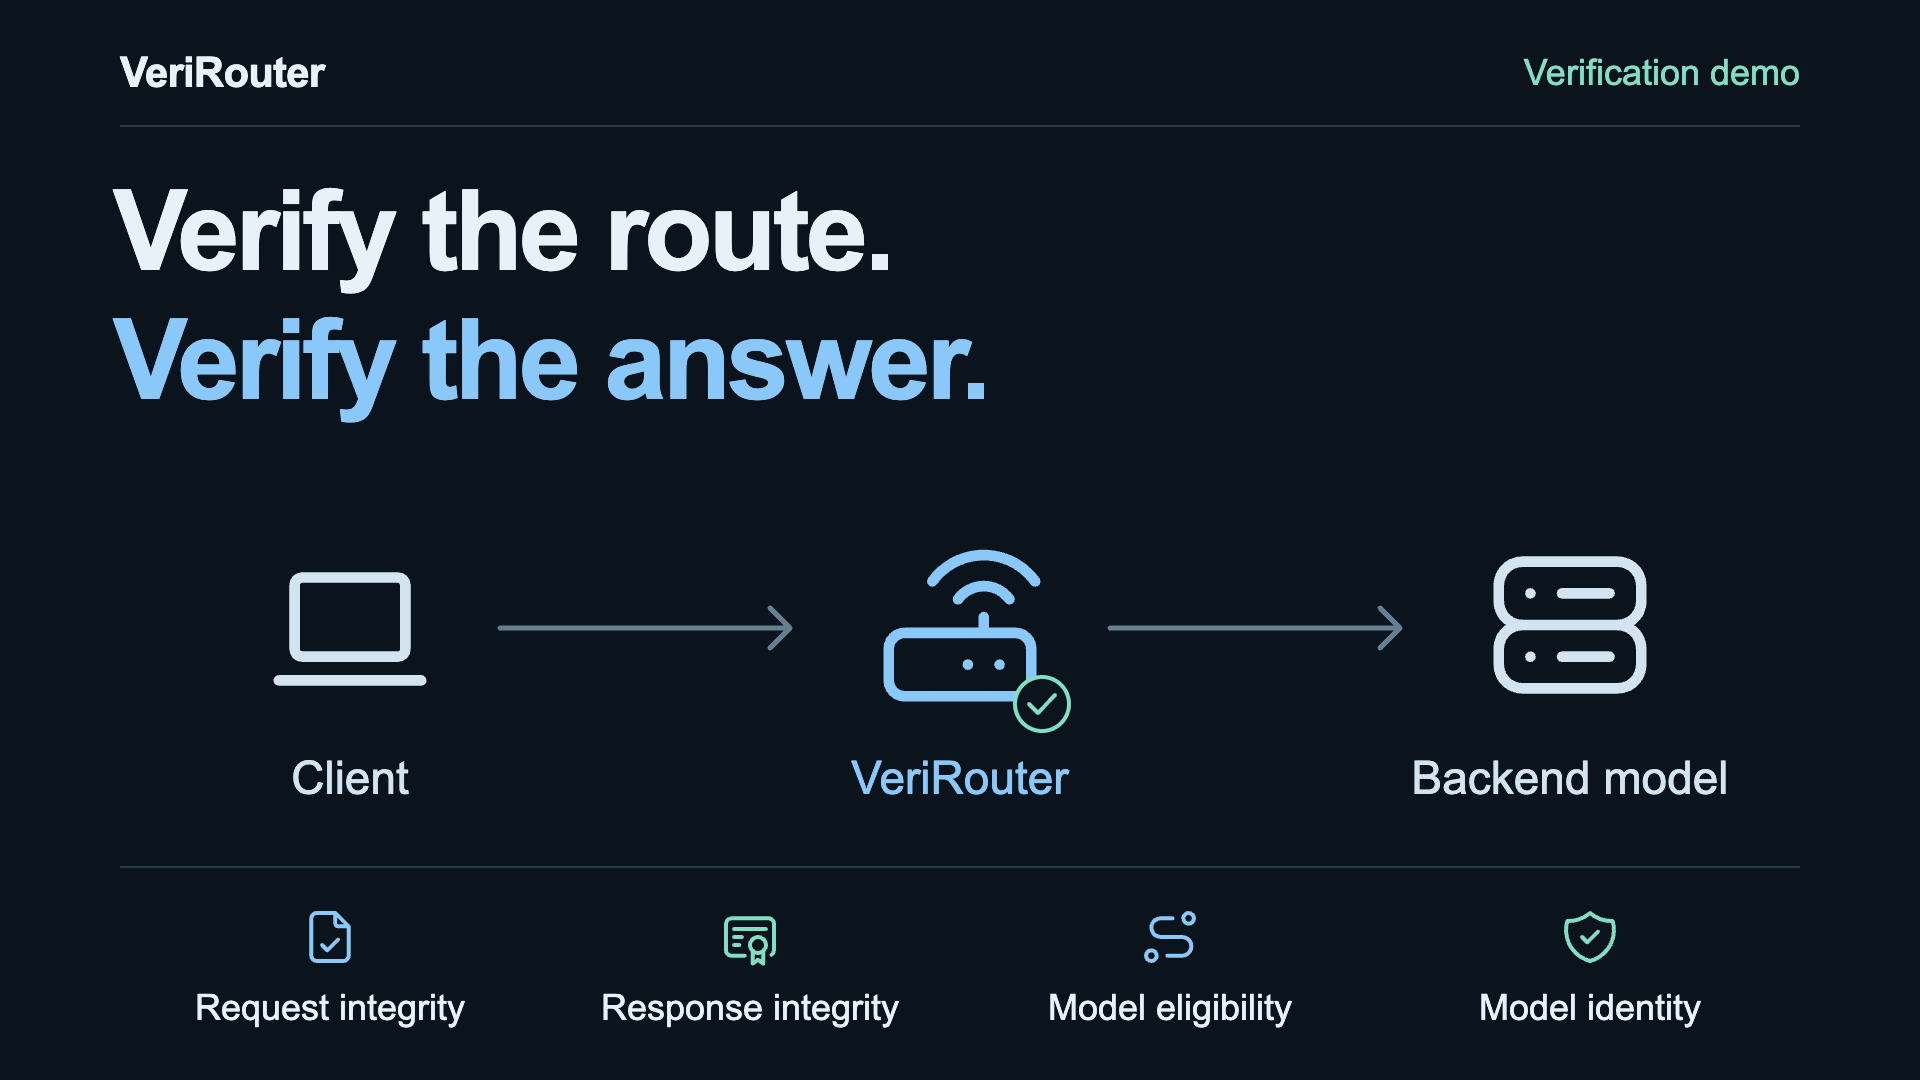
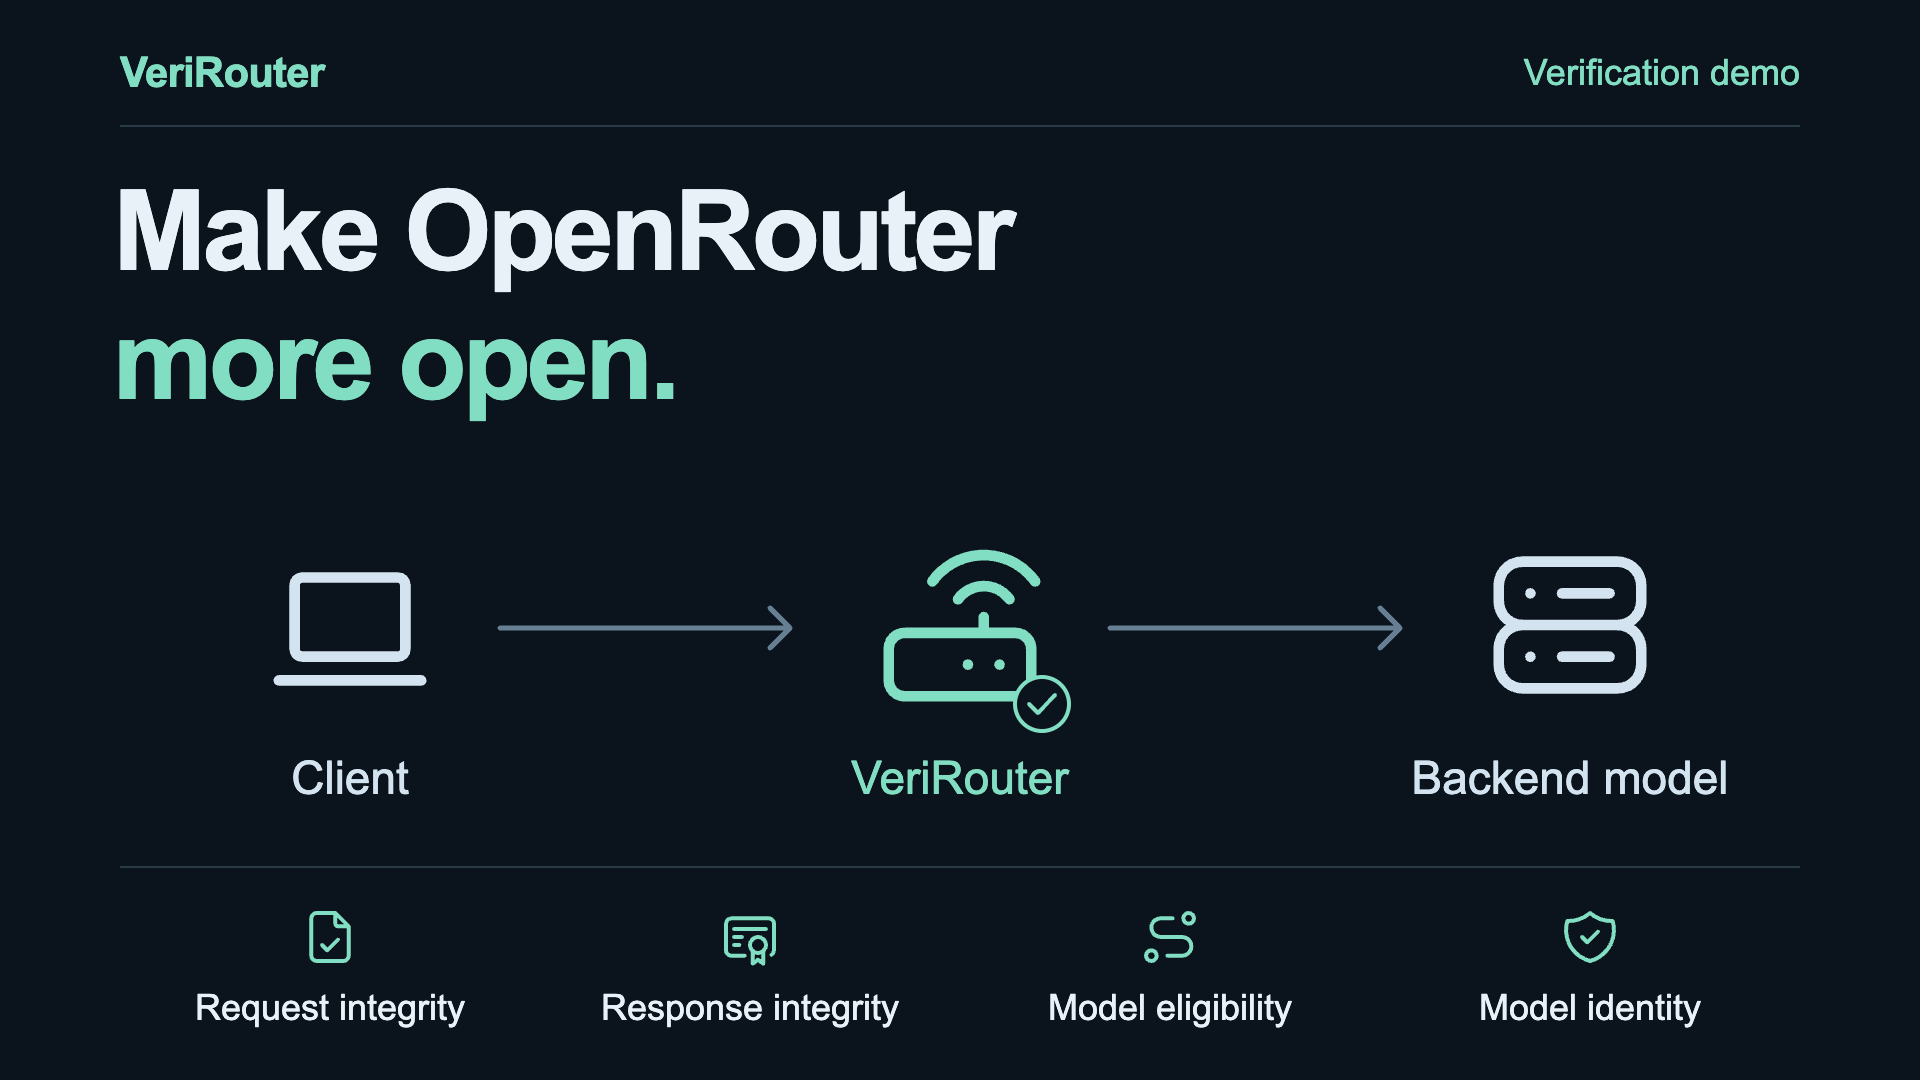
Sharpen the trust story and animate the routing flow

diff --git a/index.html b/index.html
@@ -76,26 +76,26 @@
     <section class="hero container" aria-labelledby="hero-title">
       <div class="hero-copy">
         <h1 id="hero-title">Make OpenRouter<br><em>more open.</em></h1>
-        <p class="hero-story">A router can rewrite your request, choose which model serves it, and modify the answer before it reaches you. <strong>VeriRouter makes these hidden steps verifiable.</strong></p>
+        <p class="hero-story">The router can tamper with your prompt, answer, model choice, and model identity. <strong>VeriRouter opens routing to verification while protecting the router’s private assets.</strong></p>
         <div class="hero-actions"><a class="button button-primary" href="#attack"><svg class="icon"><use href="#i-play"/></svg> Watch the demos</a><a class="text-link" href="https://arxiv.org/abs/2610.17431" target="_blank" rel="noopener">Read the paper <svg class="icon"><use href="#i-up-right"/></svg></a></div>
       </div>
       <div class="hero-route" role="img" aria-label="The client sends a request through an LLM router to a backend model, and the response returns through the router.">
-        <div class="route-node"><svg class="icon"><use href="#i-laptop"/></svg><span>Client</span></div>
-        <div class="route-arrows"><svg class="icon"><use href="#i-arrow"/></svg><svg class="icon reverse"><use href="#i-arrow"/></svg></div>
-        <div class="route-node router-node"><svg class="icon"><use href="#i-router"/></svg><span>LLM router</span></div>
-        <div class="route-arrows"><svg class="icon"><use href="#i-arrow"/></svg><svg class="icon reverse"><use href="#i-arrow"/></svg></div>
-        <div class="route-node"><svg class="icon"><use href="#i-provider"/></svg><span>Backend model</span></div>
+        <div class="route-node hero-node-client"><svg class="icon" aria-hidden="true"><use href="#i-laptop"/></svg><span>Client</span></div>
+        <div class="route-arrows hero-leg-client"><svg class="icon hero-hop hero-request" viewBox="0 0 24 24" aria-hidden="true"><use href="#i-arrow"/><circle class="hero-packet" cx="5" cy="12" r="2.6"/></svg><svg class="icon reverse hero-hop hero-response" viewBox="0 0 24 24" aria-hidden="true"><use href="#i-arrow"/><circle class="hero-packet" cx="5" cy="12" r="2.6"/></svg></div>
+        <div class="route-node router-node hero-node-router"><svg class="icon" aria-hidden="true"><use href="#i-router"/></svg><span>LLM router</span></div>
+        <div class="route-arrows hero-leg-backend"><svg class="icon hero-hop hero-request" viewBox="0 0 24 24" aria-hidden="true"><use href="#i-arrow"/><circle class="hero-packet" cx="5" cy="12" r="2.6"/></svg><svg class="icon reverse hero-hop hero-response" viewBox="0 0 24 24" aria-hidden="true"><use href="#i-arrow"/><circle class="hero-packet" cx="5" cy="12" r="2.6"/></svg></div>
+        <div class="route-node hero-node-backend"><svg class="icon" aria-hidden="true"><use href="#i-provider"/></svg><span>Backend model</span></div>
       </div>
     </section>
 
     <section class="chapter container" id="attack" aria-labelledby="attack-title">
-      <div class="chapter-heading"><p class="chapter-label"><span>01</span> Attack demo</p><h2 id="attack-title">What can the router change?</h2><p>Follow a request through attacks on the prompt, answer, model choice, and model identity.</p></div>
+      <div class="chapter-heading"><p class="chapter-label"><span>01</span> Attack demo</p><h2 id="attack-title">What can the router change?</h2><p>A toothache question becomes a sponsored recommendation or an answer from the wrong model. Our demo exposes the router actions behind these outcomes.</p></div>
       <div class="film-frame"><video id="attack-player" controls playsinline preload="none" poster="assets/attack-cover.png" aria-label="Full attack demo"><source src="assets/media/attacks-all.mp4" type="video/mp4"></video><button class="film-play" data-play="attack-player" aria-label="Play the attack demo"><svg class="icon"><use href="#i-play"/></svg></button></div>
       <div class="film-meta"><span>Attack walkthrough</span><span>5:29</span></div>
     </section>
 
     <section class="chapter container" id="verification" aria-labelledby="verification-title">
-      <div class="chapter-heading"><p class="chapter-label"><span>02</span> Verification demo</p><h2 id="verification-title">Make the hidden steps verifiable.</h2><p>VeriRouter proves model selection and request rewriting in zero knowledge, then binds the serving event to a provider-signed certificate.</p></div>
+      <div class="chapter-heading"><p class="chapter-label"><span>02</span> Verification demo</p><h2 id="verification-title">Open to verification.</h2><p>Our framework, VeriRouter, uses zero-knowledge proofs to verify model eligibility and endorsed request rewriting. A provider-signed serving certificate authenticates the model and its answer. The router’s semantic index and rewrite banks stay private.</p></div>
       <div class="film-frame"><video id="verification-player" controls playsinline preload="none" poster="assets/verification-cover.png" aria-label="Full VeriRouter verification demo"><source src="assets/media/verifications-all.mp4" type="video/mp4"></video><button class="film-play" data-play="verification-player" aria-label="Play the verification demo"><svg class="icon"><use href="#i-play"/></svg></button></div>
       <div class="film-meta"><span>Verification walkthrough</span><span>5:49</span></div>
     </section>
@@ -145,7 +145,7 @@
     </section>
 
     <section class="chapter container integration-section" id="integration" aria-labelledby="integration-title">
-      <div class="chapter-heading"><p class="chapter-label"><span>06</span> Get started</p><h2 id="integration-title">Integrate VeriRouter into your router.</h2><p>Add verifiable model selection, request rewriting, and authenticated responses to your routing pipeline.</p></div>
+      <div class="chapter-heading"><p class="chapter-label"><span>06</span> Get started</p><h2 id="integration-title">Integrate VeriRouter into your router.</h2><p>Make your routing pipeline open to client verification.</p></div>
       <div class="integration-actions"><a class="button button-primary" href="https://github.com/Yao-mengyu/VeriRouter-release" target="_blank" rel="noopener"><svg class="icon"><use href="#i-code"/></svg>View code <svg class="icon"><use href="#i-up-right"/></svg></a></div>
     </section>
   </main>

diff --git a/styles.css b/styles.css
@@ -49,6 +49,36 @@ main {display:flex;flex-direction:column;gap:100px}
 .hero-actions {display:flex;align-items:center;flex-wrap:wrap;gap:24px;margin-top:30px}
 .hero-route,.verifier-route {display:grid;grid-template-columns:minmax(0,1fr) 32px minmax(0,1fr) 32px minmax(0,1fr);align-items:start;gap:10px}
 .hero-route {padding:25px 0;border-block:1px solid var(--line)}
+.hero-route .hero-request {color:var(--blue)}
+.hero-route .hero-response {color:var(--mint)}
+.hero-route .hero-hop>use {opacity:.48}
+.hero-route .hero-packet {fill:currentColor;stroke:var(--bg);stroke-width:.7;opacity:0;animation:hero-packet-travel 8s linear infinite}
+.hero-leg-client .hero-request .hero-packet {animation-delay:.4s}
+.hero-leg-backend .hero-request .hero-packet {animation-delay:1.9s}
+.hero-leg-backend .hero-response .hero-packet {animation-delay:4.4s}
+.hero-leg-client .hero-response .hero-packet {animation-delay:5.9s}
+.hero-route .hero-node-client>.icon {animation:hero-client-arrival 8s ease-in-out infinite}
+.hero-route .hero-node-router>.icon {animation:hero-router-arrival 8s ease-in-out infinite}
+.hero-route .hero-node-backend>.icon {animation:hero-backend-arrival 8s ease-in-out infinite}
+@keyframes hero-packet-travel {
+  0% {opacity:0;transform:translateX(0)}
+  2% {opacity:1;transform:translateX(0)}
+  14% {opacity:1;transform:translateX(14px)}
+  16%,100% {opacity:0;transform:translateX(14px)}
+}
+@keyframes hero-client-arrival {
+  0%,83%,95%,100% {color:#c1d8e9;filter:drop-shadow(0 0 0 transparent);transform:scale(1)}
+  88%,90% {color:var(--mint);filter:drop-shadow(0 0 4px #9bdcbe70);transform:scale(1.04)}
+}
+@keyframes hero-router-arrival {
+  0%,15%,27%,65%,77%,100% {color:var(--blue);filter:drop-shadow(0 0 0 transparent);transform:scale(1)}
+  19%,23% {color:var(--blue);filter:drop-shadow(0 0 4px #8ac8fa70);transform:scale(1.04)}
+  69%,73% {color:var(--mint);filter:drop-shadow(0 0 4px #9bdcbe70);transform:scale(1.04)}
+}
+@keyframes hero-backend-arrival {
+  0%,34%,46%,100% {color:#c1d8e9;filter:drop-shadow(0 0 0 transparent);transform:scale(1)}
+  38%,42% {color:var(--blue);filter:drop-shadow(0 0 4px #8ac8fa70);transform:scale(1.04)}
+}
 .route-node {display:flex;flex-direction:column;align-items:center;gap:18px;text-align:center;min-width:0}
 .route-node>.icon {width:88px;height:88px;stroke-width:1.35;color:#c1d8e9}
 .route-node>span {font-size:22px;line-height:1.3;color:#c4dbe9;max-width:160px}
@@ -69,6 +99,8 @@ main {display:flex;flex-direction:column;gap:100px}
 video {display:block;width:100%;aspect-ratio:16/9;object-fit:contain;background:var(--bg)}
 .film-play {position:absolute;right:4%;top:32%;transform:translateY(-50%);display:grid;place-items:center;width:80px;height:80px;border-radius:50%;border:1px solid #b5dfff;background:#8ac8fa;color:#0d2537;box-shadow:0 6px 24px #0003}
 .film-play:hover {background:#b9e1ff}
+#verification .film-play {background:#82dec2;border-color:#b4efdf;color:#0b3025}
+#verification .film-play:hover {background:#b4efdf}
 .film-play>.icon {width:34px;height:34px;stroke-width:1.6;margin-left:3px}
 .film-meta {display:flex;justify-content:space-between;align-items:center;gap:20px;font-size:17px;color:#9dbbd1;margin-top:12px}
 .film-meta>span:last-child {font:17px/1.5 var(--mono)}
@@ -157,3 +189,4 @@ video {display:block;width:100%;aspect-ratio:16/9;object-fit:contain;background:
   .integration-section{margin-bottom:60px}.integration-actions{margin-top:23px}.integration-actions .button{font-size:19px}.site-footer>.container{gap:16px}.site-footer .wordmark{font-size:25px}.site-footer .text-link{font-size:17px}
 }
 @media(prefers-reduced-motion:reduce) {html{scroll-behavior:auto}*,*:before,*:after{animation-duration:.01ms!important;transition-duration:.01ms!important}}
+@media(prefers-reduced-motion:reduce) {.hero-route .hero-packet{display:none;animation:none!important}.hero-route .route-node>.icon{animation:none!important;transform:none;filter:none}}
